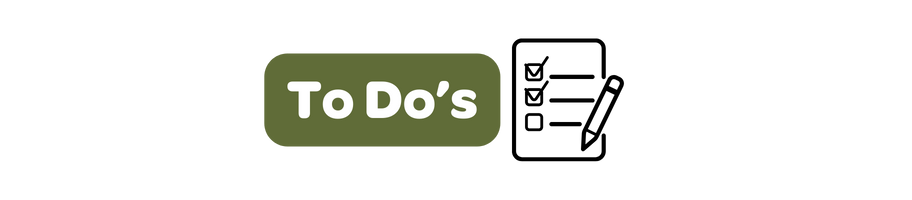
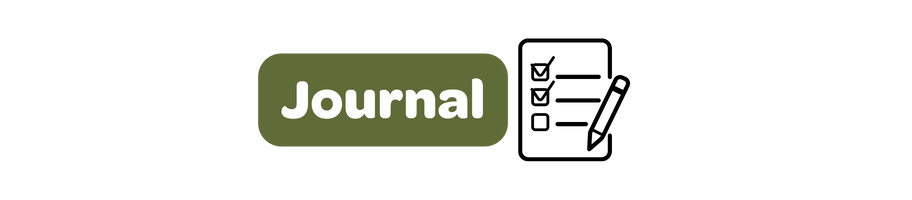
update image and styling for journal

Changed region(s): [[0.2763, 0.18, 0.7061, 0.81]]

diff --git a/calpal/src/app/(with-side-bar)/journal/page.tsx b/calpal/src/app/(with-side-bar)/journal/page.tsx
@@ -1,6 +1,7 @@
 import React from "react";
 import Sidebar from "../../components/sidebar";
 import { DiGroovy } from "react-icons/di";
+import Image from "next/image";
 
 const TodoCard = ({ title, todos }) => {
   return (
@@ -25,10 +26,15 @@ export default function Activities() {
 
       <div className="w-full h-dvh">
         <div className="flex h-1/3 items-center justify-center bg-green">
-          <header className="text-white font-serif text-4xl font-normal">Name of Program</header>
-        </div>
+        <Image
+                            src='/images/banners/todos.png'
+                            alt="banner"
+                            width={2000}
+                            height={300}>    
 
-        <div className="flex flex-wrap overscroll-auto justify-center w-full max-h-[calc(100%-4rem)] py-8 bg-white gap-4">
+                        </Image>        </div>
+
+        <div className="flex flex-wrap overscroll-auto justify-center w-full max-h-[calc(100%-4rem)] py-8 bg-green gap-4">
           {/* Education Card */}
           <TodoCard
             title="Education"

diff --git a/calpal/src/app/addmentors/page.js b/calpal/src/app/addmentors/page.js
@@ -25,11 +25,10 @@ export default function Login() {
       let currentUserIn = await getCurrentUserData();
       let ranked = rankMostMatchingEntries(data, currentUserIn);
       setAvailableMentors(ranked);
-      console.log("here");
-      console.log(ranked);
     };
     getData();
   }, []);
+
   return (
     <div className="flex flex-col items-center justify-center w-full flex-1 min-h-screen flex-col bg-green">
       <div className="bg-light-cream rounded-xl p-12 w-2/3">
@@ -52,12 +51,6 @@ export default function Login() {
           </div>
         ))}
       </div>
-      <button
-        style={{ color: "blue" }}
-        onClick={() => window.location.replace("http://localhost:3000/dashboard")}
-      >
-        Continue!
-      </button>
     </div>
   );
 }
